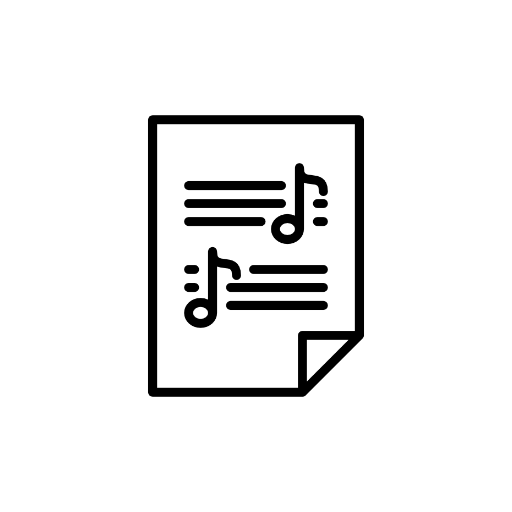
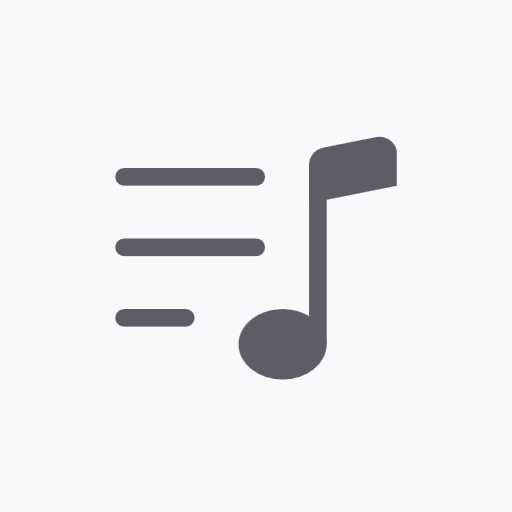
correção PWA e atualização

Changed region(s): [[0.2188, 0.2188, 0.7812, 0.7812]]

diff --git a/sws.js b/sws.js
@@ -1,17 +1,17 @@
-const CACHE_NAME = 'v26.05.23';
+const CACHE_NAME = 'v26.05.23.14';
 const ASSETS = [
 	'./',
-	'./index.html',
-    './song.html',
+	'./index.html', 
+  './song.html',
 	'./manifest.json',
 	'./maskable_icon_x512.png',
-    './assets/css/song.css',
+  './assets/css/song.css',
 	'./assets/css/style.css',
-    './assets/js/app.js',
-    './assets/js/song.js',
-    './assets/vendor/fuse.min.js',
-    './assets/vendor/chordsheetjs.min.js',
-    './songs.json'
+  './assets/js/app.js',
+  './assets/js/song.js',
+  './assets/vendor/fuse.min.js',
+  './assets/vendor/chordsheetjs.min.js',
+  './songs.json'
 ];
 
 // INSTALAÇÃO
@@ -21,19 +21,29 @@ self.addEventListener('install', (e) => {
       // 1. Baixa primeiro a estrutura essencial
       await cache.addAll(ASSETS);
 
-      // 2. Lê o songs.json para descobrir as cifras e guardá-las também
+      // 2. Lê o songs.json para descobrir as cifras
       try {
         const response = await fetch('./songs.json');
         const songs = await response.json();
         
-        // Mapeia o caminho de cada arquivo cadastrado (ex: "songs/musica.cho")
-        const choUrls = songs.map(song => './' + song.file);
-        
-        // 3. Coloca todas as músicas no cache offline
-        await cache.addAll(choUrls);
-        console.log('PWA: Todas as músicas foram guardadas para uso offline!');
+        // 3. Baixa música por música
+        await Promise.all(songs.map(async (song) => {
+          const fileUrl = './' + encodeURI(song.file);
+          
+          try {
+            const songResponse = await fetch(fileUrl);
+            if (songResponse.ok) {
+              await cache.put(fileUrl, songResponse);
+            }
+          } catch (fetchErr) {
+            // Se UMA música falhar, ele apenas avisa no console e continua baixando o resto!
+            console.warn(`PWA: Não foi possível pré-cachear ${fileUrl}`, fetchErr);
+          }
+        }));
+
+        console.log('PWA: O catálogo completo foi salvo para uso offline!');
       } catch (err) {
-        console.log('PWA: Aviso ao buscar songs.json na instalação:', err);
+        console.error('PWA: Erro geral ao processar o songs.json', err);
       }
     })
   );

diff --git a/README.md b/README.md
@@ -1,56 +1,67 @@
 # ChordSheets
-Um aplicação web rápida, leve e direto ao ponto para gerenciamento, visualização e busca de cifras musicais no formato [**chordpro**](https://github.com/ChordPro/chordpro). Projetado para músicos e professores que precisam de acesso instantâneo e organizado ao seu repertório.
+Uma aplicação web rápida, leve e direto ao ponto para gerenciamento, visualização e busca de cifras musicais no formato [**ChordPro**](https://github.com/ChordPro/chordpro). Projetado especificamente para músicos e ministérios de louvor que precisam de acesso instantâneo, organizado e 100% confiável ao seu repertório, mesmo em locais sem internet.
 
 ## Funcionalidades
-* **Listagem Automática:** O repertório é carregado e ordenado alfabeticamente de forma automática.
-* **Busca Inteligente (Fuzzy Search):** Utiliza o **Fuse.js** para buscas rápidas e tolerantes a erros de digitação. Pesquise facilmente por título ou artista.
-* **Leitura Dinâmica:** As cifras são abertas dinamicamente através da página `song.html`, que captura os parâmetros da música via URL.
-* **Alta Performance:** Construído com JavaScript puro (Vanilla) para garantir que a aplicação carregue rapidamente, sem depender de frameworks pesados.
+* **Suporte 100% Offline (PWA):** Uma vez instalado no celular ou computador, o aplicativo funciona perfeitamente sem internet. O mecanismo baixa o catálogo inteiro silenciosamente em segundo plano.
+* **Geração Automática do Catálogo:** Um script de automação em Node.js varre suas pastas, limpa tags estruturais e monta o banco de dados sozinho.
+* **Busca Inteligente (Fuzzy Search):** Utiliza o **Fuse.js** para buscas instantâneas e tolerantes a erros de digitação. Pesquise por título, artista ou trechos da letra.
+* **Leitura Dinâmica:** As cifras são renderizadas dinamicamente através da página `song.html`, que captura os parâmetros e renderiza o arquivo `.cho` via URL.
+* **Ferramentas de Palco:** Transposição de tom em tempo real (+/-) e ajuste dinâmico do tamanho da fonte com salvamento automático de preferências.
+* **Alta Performance:** Construído com JavaScript puro (Vanilla) e folha de estilos enxuta para garantir carregamento em milissegundos e consumo mínimo de bateria.
 
 ## Tecnologias Utilizadas
-* **HTML5 / CSS3**
+* **HTML5 / CSS3** (Com variáveis dinâmicas e design responsivo focado no mobile)
 * **JavaScript (Vanilla / ES6)**
-* **[ChordSheetJS](https://github.com/martijnversluis/ChordSheetJS)**
-* **[Fuse.js](https://fusejs.io/)**
-* **Fetch API**
+* **Service Workers & Cache Storage API** (Para a mecânica offline do PWA)
+* **[ChordSheetJS](https://github.com/martijnversluis/ChordSheetJS)** (Parser e renderizador oficial do ChordPro)
+* **[Fuse.js](https://fusejs.io/)** (Motor de busca fuzzy local)
 
-## Como o banco de dados funciona
-O repertório é mantido de forma simples através de um arquivo `songs.json` na raiz do projeto. O aplicativo faz um fetch desse arquivo para montar a lista. 
+## Como o banco de dados funciona (E Automação)
+O repertório é mantido de forma simples através de arquivos `.cho` dentro da pasta `songs/`. Para que o aplicativo não precise de um banco de dados pesado, utilizamos um script automatizado em Node.js (`build.js`) que lê a sua pasta de músicas e gera o arquivo `songs.json` na raiz do projeto.
 
-O formato esperado do arquivo `songs.json` é:
+O script extrai os metadados do ChordPro e faz uma limpeza prévia, removendo tags estruturais (como `{start_of_verse}`, `{end_of_chorus}`) do indexador para manter a busca por texto limpa e precisa.
 
-```json
-[
-  {
-    "title": "Nome da Música",
-    "artist": "Nome do Artista",
-    "key": "G",
-    "file": "songs/artista/nome-da-musica.cho"
-  },
-  {
-    "title": "Outra Música",
-    "artist": "Outro Artista",
-    "key": "Am",
-    "file": "songs/artista/outra-musica.cho"
-  }
-]
+### Como gerar/atualizar o catálogo:
+Sempre que adicionar ou editar uma música na pasta `songs/`, rode o comando abaixo no terminal para atualizar o seu índice:
+
+```bash
+node build.js
 ```
 
-## Como executar localmente
-Como o projeto utiliza a `Fetch API` para carregar o arquivo `.json`, não é possível rodá-lo apenas abrindo o arquivo `index.html` direto no navegador (isso causa um erro de CORS). Você precisará de um servidor web local.
+ou:
 
-### Usando Python (Linux/Mac/Windows)
-Se você tiver o Python instalado (muito comum em distribuições como Arch Linux), basta rodar no terminal, dentro da pasta do projeto:
+```bash
+npm run build
+```
+
+## 📶 PWA & Estratégia de Atualização Offline
+O projeto utiliza um Service Worker configurado com a estratégia **Stale-while-revalidate** combinado com um instalador individual à prova de falhas.
+
+Ao abrir o aplicativo, ele carrega instantaneamente os dados do cache local (velocidade máxima). Se houver conexão com a internet, o Service Worker verifica o `songs.json` em segundo plano e atualiza as novas cifras arquivo por arquivo.
+
+> ⚠️ **Nota de Manutenção:** Sempre que gerar um novo lote de músicas com o `build.js`, lembre-se de alterar a versão do cache na primeira linha do arquivo `sw.js` (ex: `const CACHE_NAME = 'v1';`) para forçar os dispositivos dos músicos a baixarem as novidades.
+
+## 🛠️ Como executar localmente
+Como o projeto utiliza a `Fetch API` localmente para carregar os arquivos JSON e as cifras, o navegador bloqueará o funcionamento direto se você apenas clicar duas vezes no `index.html` (Erro de CORS). Você precisará de um servidor web local simples.
+
+### Usando Python
+Se você tiver o Python instalado, basta rodar dentro da pasta do projeto:
 
 ```bash
 python -m http.server 8000
 ```
 
-E acessar `http://localhost:8000` no seu navegador.
+E acessar `http://localhost:8000` no navegador.
+
+### Usando o Node.js (npx)
+Se preferir usar o ecossistema do Node, você pode levantar um servidor rápido com:
+```bash
+npx http-server .
+```
 
 ### Usando o VS Code / VSCodium
 1. Instale a extensão **Live Server**.
-2. Clique com o botão direito no arquivo `index.html` e selecione "Open with Live Server".
+2. Clique com o botão direito no arquivo `index.html` e selecione **"Open with Live Server"**.
 
-## Licença
-Distribuído sob a licença [**MIT**](LICENSE).
+## 📄 Licença
+Distribuído sob a licença **[MIT](https://www.google.com/search?q=LICENSE)**.